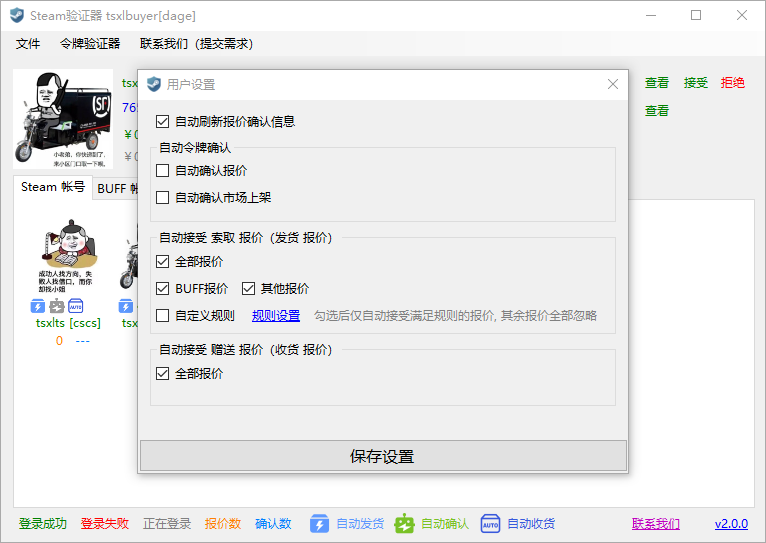
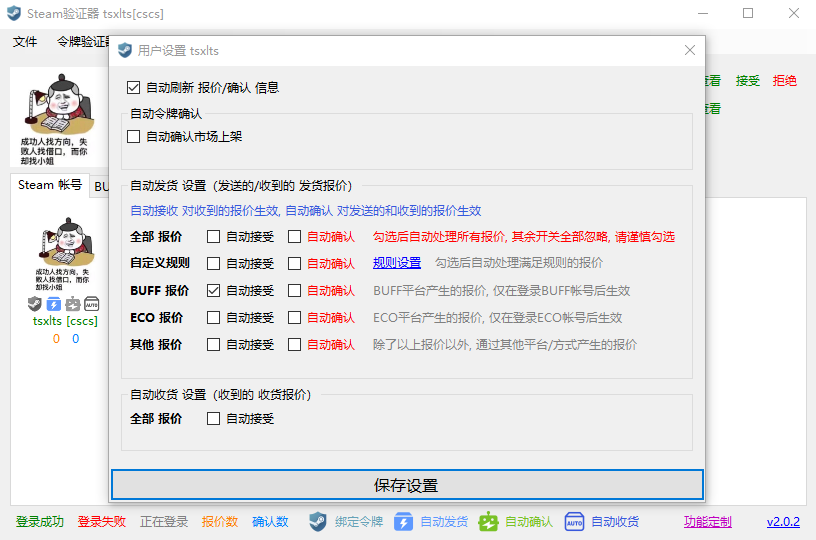
更新README

Changed region(s): [[0.0, 0.0, 1.0, 1.0], [0.9008, 0.0, 0.9308, 0.0296], [0.8407, 0.0, 0.8708, 0.0296]]

diff --git a/README.md b/README.md
@@ -2,14 +2,15 @@
 ## Steam身份验证器 Steam桌面令牌
 ### Steam自动发货工具 Steam自动收货工具
 
-1、支持无15天交易限制转移令牌！！！<br>
-2、支持自动确认交易报价和市场上架<br>
-3、支持自动接受报价，无需绑定令牌，可单独配置自动接受收货报价和发货报价<br>
-4、支持导入导出令牌<br>
-5、支持多账号管理<br>
-6、支持扫码登录<br>
-7、支持添加BUFF帐号，自动处理BUFF报价<br>
-8、支持自定义接受报价规则，自动接受指定规则的报价<br>
+<p>1、支持无15天交易限制转移令牌！！！</p>
+<p>2、支持自动确认交易报价和市场上架</p>
+<p>3、支持自动接受报价，无需绑定令牌，可单独配置自动接受收货报价和发货报价</p>
+<p>4、支持导入导出令牌</p>
+<p>5、支持多账号管理</p>
+<p>6、支持扫码登录</p>
+<p>7、支持添加BUFF帐号，自动处理BUFF报价</p>
+<p>8、支持添加ECO帐号，自动处理ECO报价</p>
+<p>9、支持自定义接受报价和令牌确认规则，自动处理指定规则的报价</p>
 
 ![main](images/1_main.png)<br>
 ![main](images/1_main_menu1.png)<br>
